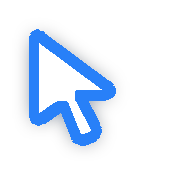
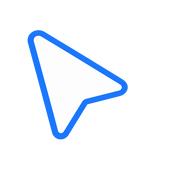
fix(remote): replace Jian pointer sprite

Changed region(s): [[0.1111, 0.1389, 0.7222, 0.8333]]

diff --git a/apps/remote-control/macos/computer-helper.swift b/apps/remote-control/macos/computer-helper.swift
@@ -94,127 +94,201 @@ private let hotspot = CGPoint(x: 12, y: 12)
 
 /// Ship asset `macos/jian-pointer.png` (@3x master) as base64 — single-file helper stays
 /// reliable when only the binary is copied into Application Support (no sidecar PNG).
-private let jianPointerPngBase64 =
[120 lines of base64/hex data omitted]
+private let jianPointerPngBase64 = """
[6 lines of base64/hex data omitted]
+FypUqFChQoUKFSpUqFChQoUKFSpUqFChQoUKFSpUqFChQoUKFSpUqFChQoUKFSpUqFChQoUKFSpUqFChQoUKFSpU
[184 lines of base64/hex data omitted]
+hQoVKlSoUKFChQoVKlSoUKFChQoVKlSoUKFChQoVKlSoUKFChQoVKlSoUKFChQoVKlSoUKFChQoVKlSoUKFChQoV
+KlSoUKFChQoVKlT4ofD/ANZiEguC4TMqAAAAAElFTkSuQmCC
+"""
 
 private let jianPointerImage: NSImage? = {
   guard let data = Data(base64Encoded: jianPointerPngBase64, options: .ignoreUnknownCharacters)
